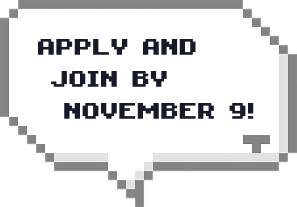
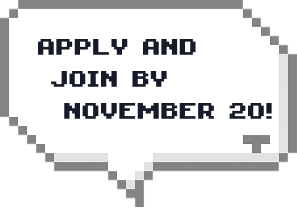
fix: change timeline date, apply date, and hackathon to ideathon

diff --git a/src/views/TimelinePage.vue b/src/views/TimelinePage.vue
@@ -181,7 +181,7 @@ onBeforeUnmount(() => {
 
       <div class="journey-header reveal" v-reveal>
         <h2>DIGITAL MOVERS JOURNEY</h2>
-        <p class="journey-dates">NOV 2026 - AUG 2027</p>
+        <p class="journey-dates">DEC 2026 - AUG 2027</p>
       </div>
 
       <section class="timeline-levels">
